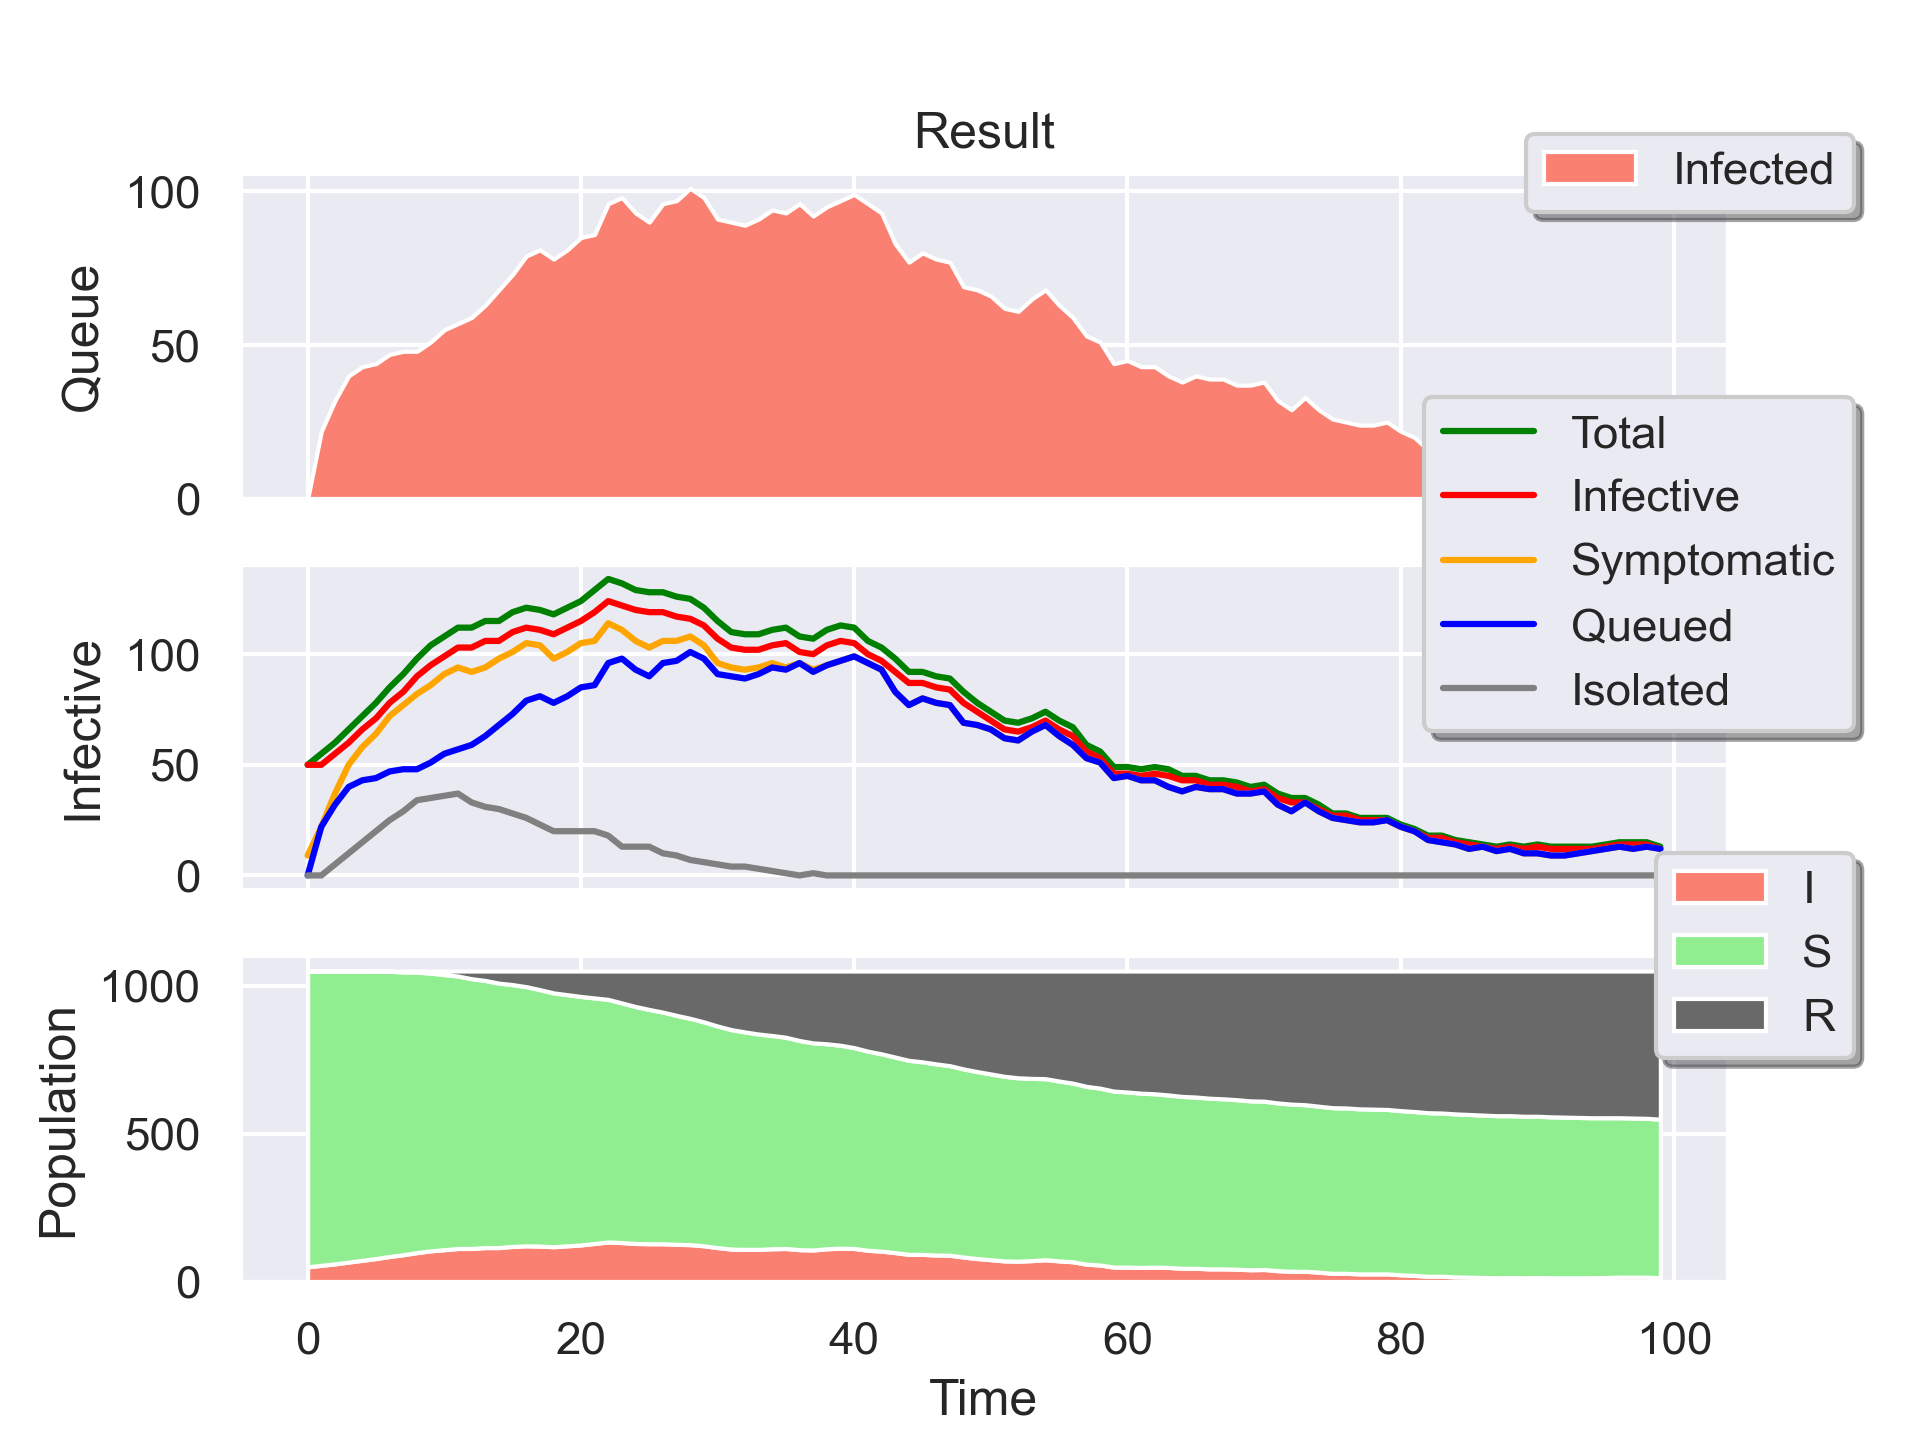
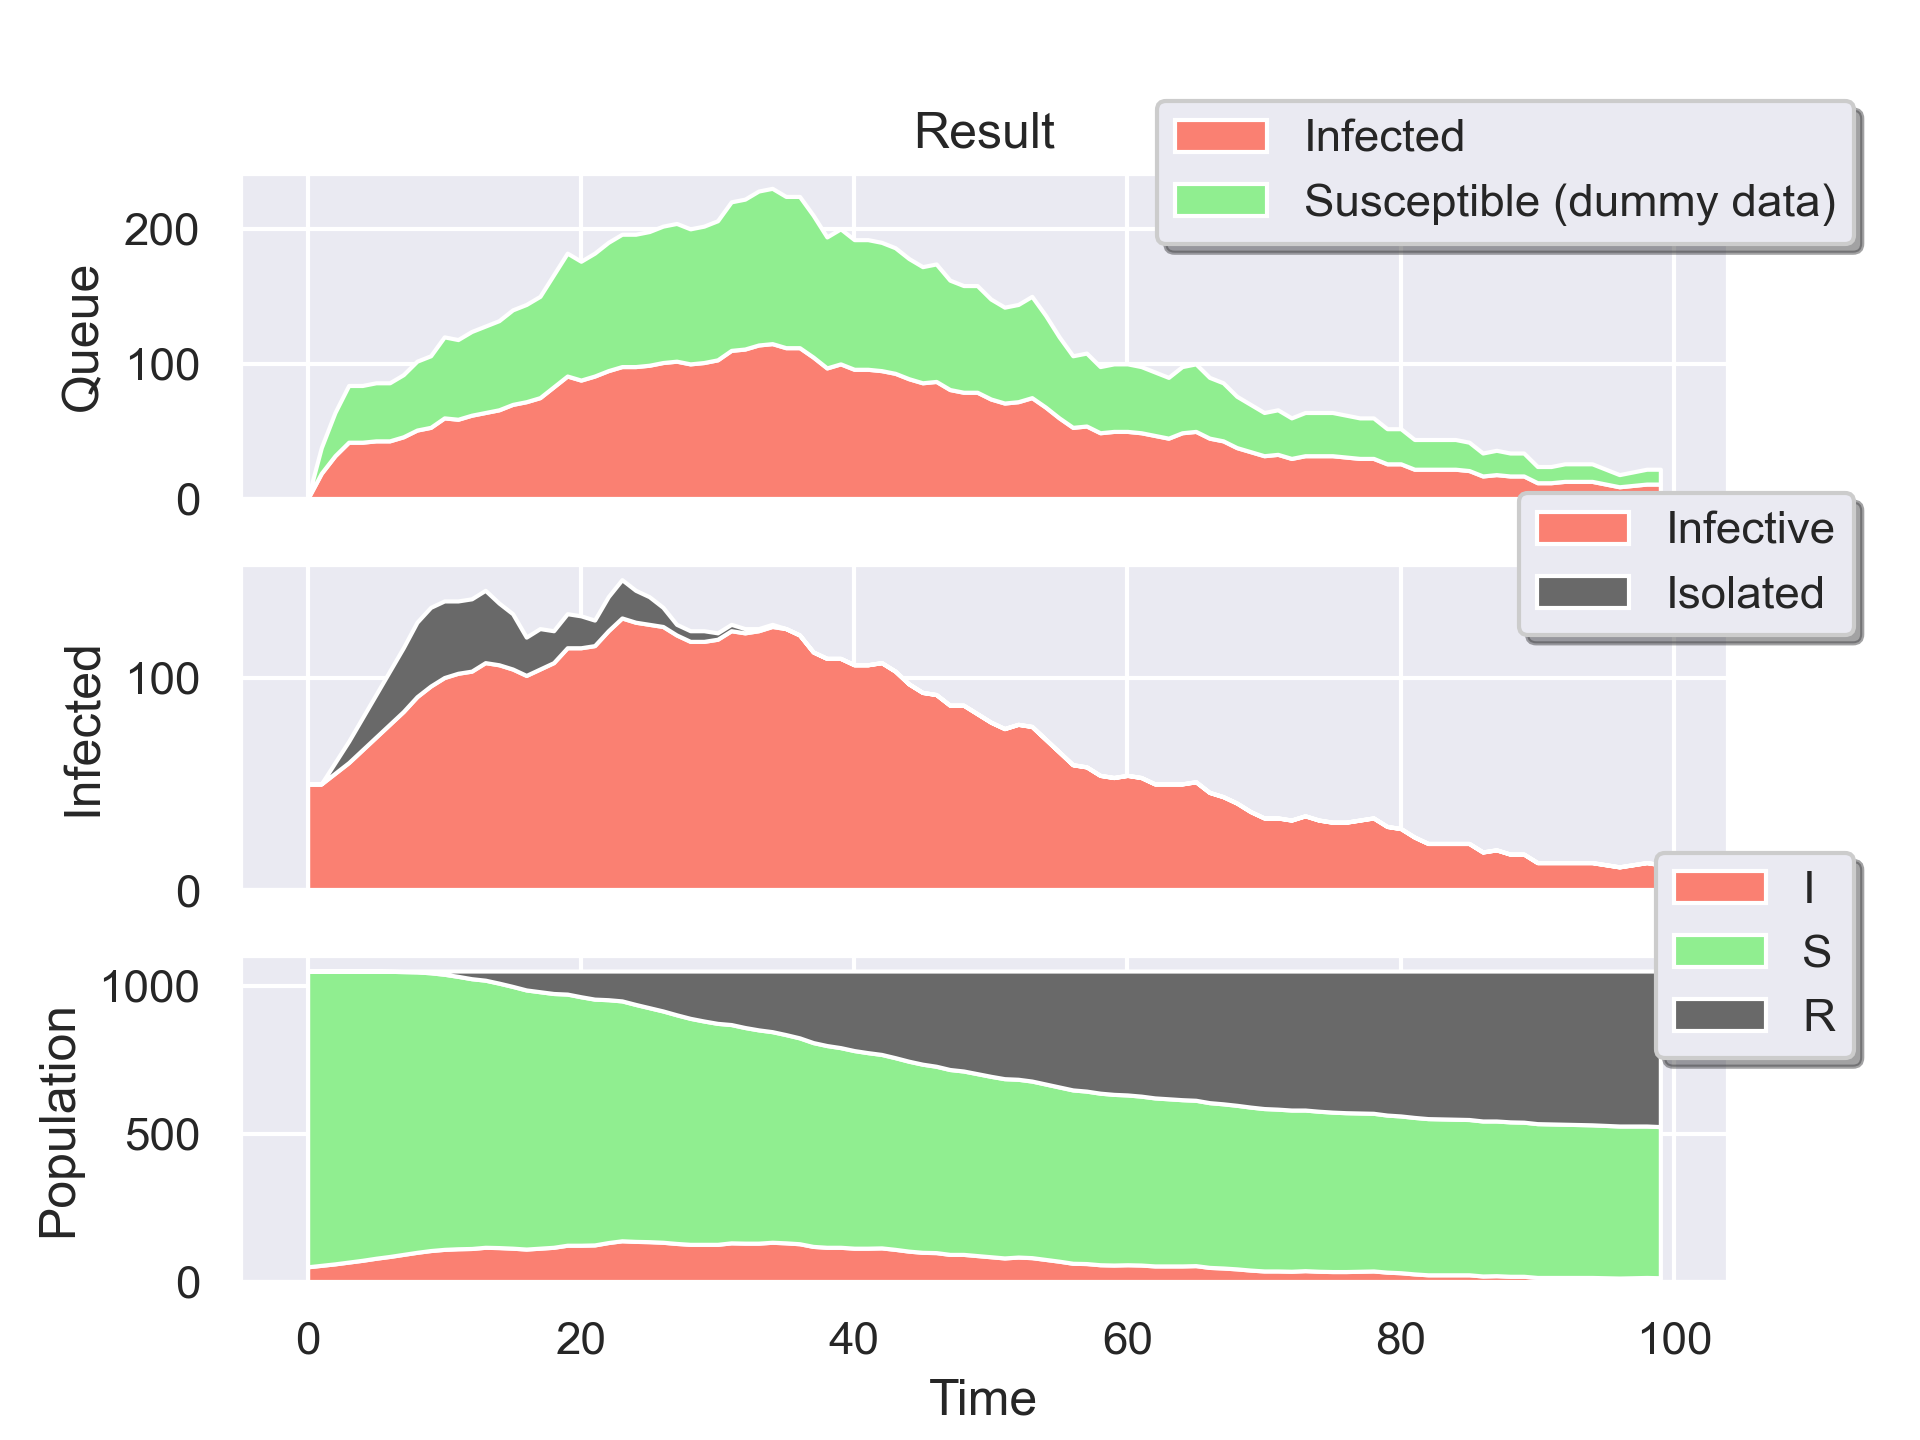
Stackplot for infected

diff --git a/model.py b/model.py
@@ -120,8 +120,10 @@ class Model:
 
         plt.subplot(3, 1, 1)
         plt.stackplot(self.Results['Time'],
-                      [self.Results['InfectedQueued']],
-                      labels=['Infected'], colors=['salmon'])
+                      [self.Results['InfectedQueued'],
+                       self.Results['InfectedQueued']],
+                      labels=['Infected', 'Susceptible (dummy data)'],
+                      colors=['salmon', 'lightgreen'])
         plt.legend(bbox_to_anchor=(1.1, 1), loc='right',
                    ncol=1, fancybox=True, shadow=True)
         plt.ylabel('Queue')
@@ -135,19 +137,14 @@ class Model:
             labelbottom=False)
 
         plt.subplot(3, 1, 2)
-        plt.plot(self.Results['Time'],
-                 self.Results['Infected'], color='green')
-        plt.plot(self.Results['Time'],
-                 self.Results['InfectedInfective'], color='red')
-        plt.plot(self.Results['Time'],
-                 self.Results['InfectedSymptomatic'], color='orange')
-        plt.plot(self.Results['Time'],
-                 self.Results['InfectedQueued'], color='blue')
-        plt.plot(self.Results['Time'],
-                 self.Results['InfectedIsolated'], color='gray')
-        plt.ylabel('Infective')
-        plt.legend(['Total', 'Infective', 'Symptomatic', 'Queued', 'Isolated'],
-                   bbox_to_anchor=(1.1, 1), loc='right', ncol=1, fancybox=True, shadow=True)
+        plt.stackplot(self.Results['Time'],
+                      [self.Results['InfectedInfective'],
+                       self.Results['InfectedIsolated']],
+                      labels=['Infective', 'Isolated'],
+                      colors=['salmon', 'dimgray'])
+        plt.ylabel('Infected')
+        plt.legend(bbox_to_anchor=(1.1, 1), loc='right',
+                   ncol=1, fancybox=True, shadow=True)
         # Remove x-tick
         plt.tick_params(
             axis='x',
